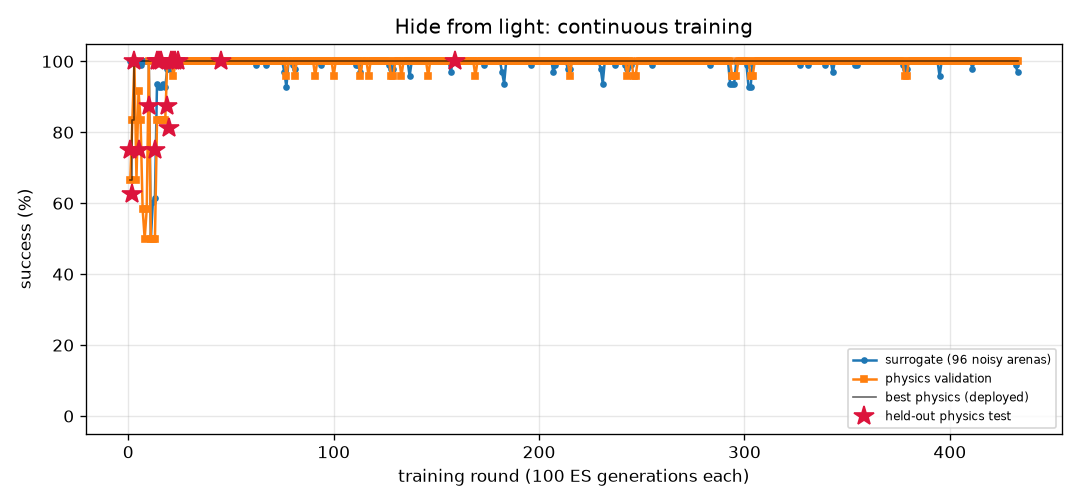
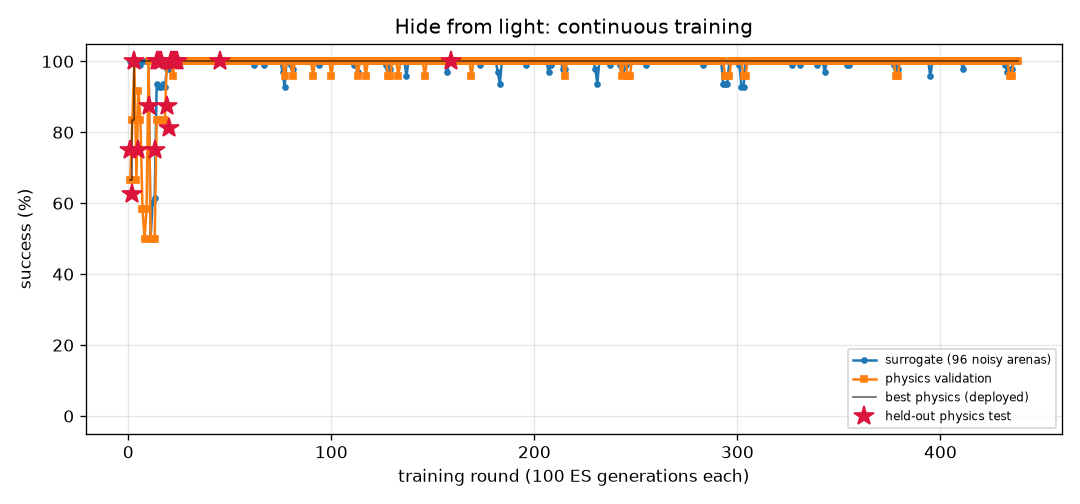
FlyLab: continuous training progress
- walk_forward: optimal, physics val 100% of 24, round 235
- turn: optimal, physics val 100% of 24, round 767
- goto: optimal, physics val 100% of 24, round 195
- odor_seek: optimal, physics val 100% of 24, round 167
- odor_avoid: optimal, physics val 100% of 24, round 704
- light_seek: optimal, physics val 100% of 24, round 390
- light_avoid: optimal, physics val 100% of 24, round 438

diff --git a/projects/09_flylab/training/odor_avoid/REPORT.md b/projects/09_flylab/training/odor_avoid/REPORT.md
@@ -1,14 +1,14 @@
 # Escape a bad smell (`odor_avoid`) — training report
 
-*Auto-generated by `train_brains.py`, last updated 2026-10-29T19:19:18.*
+*Auto-generated by `train_brains.py`, last updated 2026-10-30T20:08:46.*
 
 ![curve](curve.png)
 
 | | |
 |---|---|
-| rounds | 698 |
-| ES generations | 69800 |
-| physics runs | 14058 |
+| rounds | 704 |
+| ES generations | 70400 |
+| physics runs | 14202 |
 | status | **optimal** |
 | best brain | round 373: physics validation **100%** on 24 arenas, surrogate 97% |
 | held-out physics test | **97%** on 32 unseen arenas (95% CI 84%-99%) (errors: [62.0, 57.4, 62.6, 61.9, 59.0, 61.6, 56.5, 60.7, 31.7, 60.9, 63.1, 57.1, 61.1, 62.1, 61.5, 60.2, 62.2, 55.2, 62.1, 54.2, 61.3, 62.0, 58.0, 61.9, 59.8, 56.5, 56.3, 56.4, 56.3, 57.7, 61.9, 32.4]) |
@@ -17,12 +17,6 @@ Physics error per arena: mm gained away from source (> 6 without first approachi
 
 | round | level | gens | sigma | surrogate | physics val | val errors | test | note |
 |---:|---:|---:|---:|---:|---:|---|---:|---|
-| 659 | 3 | 65900 | 0.026 | 96% | 96% | [63.3, 57.2, 55.7, 55.9, 61.5, 62.5, 60.3, 32.1, 60.5, 60.2, 58.8, 61.8, 51.7, 54.4, 31.1, 62.1, 62.1, 62.1, 55.2, 58.3, 62.2, 60.8, 59.0, 62.6] |  |  |
-| 660 | 3 | 66000 | 0.026 | 96% | 96% | [62.7, 55.6, 56.0, 60.5, 61.4, 60.9, 61.2, 21.3, 59.9, 39.2, 60.3, 61.7, 52.5, 52.6, 43.3, 60.4, 61.7, 60.6, 54.4, 55.3, 61.9, 58.6, 57.9, 47.3] |  |  |
-| 661 | 3 | 66100 | 0.026 | 94% | 92% | [62.3, 57.4, 56.1, 57.3, 62.1, 61.1, 61.0, 2.2, 61.1, 26.9, 59.6, 62.0, 52.0, 56.4, 31.9, 61.8, 61.9, 61.2, 54.9, 57.0, 61.6, 38.9, 59.1, 27.9] |  | restart from best |
-| 662 | 3 | 66200 | 0.026 | 93% | 96% | [62.2, 56.7, 57.8, 57.3, 61.1, 61.3, 59.9, 47.6, 60.2, 60.0, 60.8, 60.8, 52.1, 54.9, 38.3, 61.3, 60.7, 61.3, 54.5, 56.2, 60.5, 32.9, 57.3, 22.2] |  |  |
-| 663 | 3 | 66300 | 0.028 | 94% | 100% | [62.3, 61.3, 57.8, 61.2, 60.1, 55.9, 60.7, 54.2, 61.5, 53.8, 56.7, 60.7, 44.1, 54.2, 24.0, 61.4, 61.1, 61.6, 51.7, 59.2, 60.9, 44.7, 56.4, 61.5] |  |  |
-| 664 | 3 | 66400 | 0.028 | 96% | 100% | [59.6, 54.1, 56.2, 55.7, 59.3, 60.5, 60.7, 57.8, 60.6, 48.3, 42.6, 60.8, 51.1, 55.6, 21.8, 60.3, 60.9, 59.9, 51.6, 54.7, 60.6, 58.4, 58.0, 60.2] |  |  |
 | 665 | 3 | 66500 | 0.026 | 96% | 92% | [59.8, 59.0, 56.7, 59.8, 59.7, 61.6, 61.2, 57.9, 61.1, 56.2, 59.6, 61.2, 50.8, 57.0, 36.7, 60.9, 61.4, 61.5, 54.0, 55.7, 61.5, 44.2, 59.9, 60.9] |  | restart from best |
 | 666 | 3 | 66600 | 0.026 | 96% | 100% | [63.3, 56.0, 56.3, 56.3, 60.9, 60.6, 60.4, 44.9, 61.1, 53.2, 55.4, 62.4, 51.2, 55.8, 36.4, 62.0, 62.4, 62.0, 54.8, 58.9, 61.8, 61.4, 59.0, 62.6] |  |  |
 | 667 | 3 | 66700 | 0.026 | 91% | 100% | [62.9, 58.2, 52.3, 61.5, 60.6, 60.2, 61.5, 59.5, 60.9, 60.4, 50.4, 61.6, 52.5, 54.9, 20.7, 61.1, 61.1, 60.5, 52.6, 56.0, 61.2, 53.1, 59.1, 62.3] |  |  |
@@ -57,3 +51,9 @@ Physics error per arena: mm gained away from source (> 6 without first approachi
 | 696 | 3 | 69600 | 0.025 | 98% | 100% | [61.4, 58.4, 55.9, 59.2, 61.5, 60.9, 60.6, 43.7, 60.9, 42.9, 59.3, 61.3, 51.3, 57.1, 50.6, 61.1, 60.6, 60.8, 54.0, 54.4, 61.5, 61.7, 59.5, 59.3] |  |  |
 | 697 | 3 | 69700 | 0.025 | 96% | 100% | [60.5, 59.3, 57.4, 59.7, 61.4, 62.8, 61.1, 45.9, 61.4, 61.8, 57.2, 61.4, 51.9, 58.2, 40.2, 61.4, 61.5, 62.3, 54.4, 58.4, 61.6, 61.1, 60.0, 60.8] |  | restart from best |
 | 698 | 3 | 69800 | 0.026 | 96% | 100% | [62.6, 57.3, 57.4, 59.2, 62.4, 61.9, 61.0, 60.1, 61.7, 60.2, 62.2, 62.0, 55.3, 58.2, 51.7, 62.3, 62.1, 61.9, 55.4, 57.1, 62.7, 62.6, 61.5, 62.1] |  |  |
+| 699 | 3 | 69900 | 0.026 | 95% | 100% | [60.9, 58.0, 55.7, 58.9, 60.6, 60.2, 60.9, 58.9, 61.1, 58.5, 49.9, 60.9, 38.2, 51.9, 30.6, 61.6, 60.8, 60.5, 49.8, 54.6, 61.2, 60.9, 58.8, 60.2] |  |  |
+| 700 | 3 | 70000 | 0.027 | 95% | 96% | [60.3, 56.9, 54.9, 56.8, 58.3, 60.4, 59.1, 59.1, 58.9, 57.3, 20.9, 60.2, 50.4, 51.2, 35.2, 49.6, 57.7, 58.6, 45.4, 56.5, 57.8, 58.5, 57.1, 59.1] |  |  |
+| 701 | 3 | 70100 | 0.027 | 96% | 96% | [59.0, 51.7, 55.4, 54.9, 59.6, 59.0, 59.7, 56.4, 59.8, 57.1, 56.5, 59.8, 49.5, 53.8, 29.7, 59.8, 60.2, 59.1, 50.5, 52.2, 60.1, 56.9, 55.1, 57.4] |  | restart from best |
+| 702 | 3 | 70200 | 0.026 | 97% | 92% | [62.9, 61.3, 57.3, 58.5, 61.5, 58.5, 61.5, 2.9, 60.7, 44.8, 57.8, 61.3, 51.6, 55.5, 41.1, 60.0, 61.4, 37.1, 51.8, 60.0, 61.5, 30.6, 55.7, 33.0] |  |  |
+| 703 | 3 | 70300 | 0.026 | 95% | 96% | [62.2, 61.0, 57.2, 61.1, 60.9, 61.0, 61.3, 42.3, 61.1, 41.1, 19.0, 60.7, 50.0, 55.8, 40.3, 59.6, 60.8, 61.0, 51.5, 57.8, 61.4, 42.0, 61.0, 47.8] |  |  |
+| 704 | 3 | 70400 | 0.027 | 96% | 100% | [60.7, 57.7, 56.0, 58.1, 61.5, 60.5, 58.8, 40.2, 58.8, 60.3, 55.2, 61.1, 49.8, 55.5, 47.3, 61.3, 60.9, 60.6, 53.0, 53.1, 60.7, 59.5, 57.5, 58.5] |  |  |

diff --git a/projects/09_flylab/training/light_avoid/REPORT.md b/projects/09_flylab/training/light_avoid/REPORT.md
@@ -1,14 +1,14 @@
 # Hide from light (`light_avoid`) — training report
 
-*Auto-generated by `train_brains.py`, last updated 2026-10-29T20:18:29.*
+*Auto-generated by `train_brains.py`, last updated 2026-10-30T20:06:31.*
 
 ![curve](curve.png)
 
 | | |
 |---|---|
-| rounds | 433 |
-| ES generations | 43300 |
-| physics runs | 10664 |
+| rounds | 438 |
+| ES generations | 43800 |
+| physics runs | 10784 |
 | status | **optimal** |
 | best brain | round 159: physics validation **100%** on 24 arenas, surrogate 100% |
 | held-out physics test | **100%** on 32 unseen arenas (95% CI 89%-100%) (errors: [14.4, 56.1, 58.0, 57.9, 57.5, 14.0, 14.4, 56.6, 56.8, 13.3, 14.1, 56.6, 57.6, 13.1, 57.3, 55.9, 57.2, 55.0, 55.2, 53.9, 55.2, 12.4, 53.8, 53.7, 14.1, 13.7, 55.0, 57.8, 56.2, 13.1, 52.8, 56.5]) |
@@ -17,11 +17,6 @@ Physics error per arena: mm gained away from source (> 6 without first approachi
 
 | round | level | gens | sigma | surrogate | physics val | val errors | test | note |
 |---:|---:|---:|---:|---:|---:|---|---:|---|
-| 394 | 3 | 39400 | 0.024 | 100% | 100% | [51.2, 52.5, 52.7, 51.7, 47.0, 51.3, 52.8, 14.5, 46.4, 13.2, 49.2, 47.8, 14.4, 47.1, 52.2, 51.0, 14.2, 48.4, 52.1, 14.4, 50.1, 49.7, 52.5, 45.7] |  |  |
-| 395 | 3 | 39500 | 0.024 | 96% | 100% | [37.1, 38.0, 37.0, 35.9, 39.9, 37.7, 34.6, 14.5, 37.7, 9.6, 39.0, 39.2, 14.4, 38.9, 37.6, 7.8, 14.2, 39.5, 37.7, 14.4, 8.2, 40.1, 35.4, 39.3] |  | restart from best |
-| 396 | 3 | 39600 | 0.024 | 100% | 100% | [57.4, 61.5, 61.3, 58.0, 61.3, 58.2, 59.9, 14.5, 57.4, 13.3, 60.5, 61.2, 14.3, 60.4, 61.6, 57.0, 14.2, 61.9, 62.0, 14.4, 54.5, 60.1, 59.7, 60.6] |  |  |
-| 397 | 3 | 39700 | 0.024 | 100% | 100% | [54.5, 58.3, 58.0, 54.8, 57.7, 55.4, 56.7, 14.5, 52.7, 13.4, 57.1, 57.4, 14.4, 57.4, 58.2, 54.2, 14.2, 58.2, 58.6, 14.4, 56.1, 57.3, 56.3, 56.8] |  |  |
-| 398 | 3 | 39800 | 0.024 | 100% | 100% | [49.3, 49.1, 49.6, 49.9, 44.9, 49.2, 50.2, 14.5, 40.1, 13.3, 47.6, 45.2, 14.4, 46.9, 49.7, 49.7, 14.2, 46.3, 48.6, 14.4, 50.1, 49.4, 49.8, 44.1] |  |  |
 | 399 | 3 | 39900 | 0.024 | 100% | 100% | [58.2, 62.5, 62.2, 59.0, 62.0, 59.0, 61.1, 14.5, 58.4, 12.7, 60.9, 61.9, 14.4, 59.3, 62.4, 57.6, 14.2, 62.6, 62.8, 14.4, 59.7, 61.1, 60.9, 61.3] |  | restart from best |
 | 400 | 3 | 40000 | 0.024 | 100% | 100% | [53.1, 56.1, 56.0, 54.0, 54.9, 54.2, 55.0, 14.5, 52.1, 13.5, 55.7, 54.6, 14.4, 52.9, 56.1, 54.0, 14.2, 55.5, 56.5, 14.4, 52.4, 55.6, 54.7, 54.0] |  |  |
 | 401 | 3 | 40100 | 0.024 | 100% | 100% | [49.9, 52.0, 52.1, 49.8, 48.1, 49.5, 52.1, 14.5, 11.5, 13.3, 43.8, 47.9, 14.4, 48.2, 52.1, 49.4, 14.2, 49.2, 51.7, 14.4, 48.7, 46.7, 51.6, 46.9] |  |  |
@@ -57,3 +52,8 @@ Physics error per arena: mm gained away from source (> 6 without first approachi
 | 431 | 3 | 43100 | 0.024 | 100% | 100% | [51.6, 53.9, 53.3, 52.3, 56.3, 52.5, 51.5, 14.5, 51.4, 13.3, 54.7, 56.3, 14.3, 55.7, 53.6, 51.6, 14.2, 56.1, 54.3, 14.4, 50.3, 54.8, 51.1, 55.9] |  | restart from best |
 | 432 | 3 | 43200 | 0.024 | 99% | 100% | [52.2, 53.6, 53.6, 52.3, 49.0, 52.3, 54.1, 14.5, 12.9, 13.4, 47.9, 49.2, 14.4, 47.9, 53.6, 51.4, 14.2, 50.7, 53.7, 14.4, 51.1, 45.8, 53.7, 47.8] |  |  |
 | 433 | 3 | 43300 | 0.025 | 97% | 100% | [42.0, 42.1, 42.5, 42.4, 38.2, 41.9, 43.3, 14.5, 13.0, 13.4, 10.1, 37.7, 14.4, 27.8, 42.3, 42.7, 14.2, 39.1, 41.4, 14.4, 43.0, 11.1, 42.0, 36.3] |  |  |
+| 434 | 3 | 43400 | 0.026 | 98% | 96% | [34.9, 35.7, 35.2, 36.2, 37.7, 34.6, 32.8, 14.5, 13.0, 13.4, 10.2, 37.9, 14.4, 8.0, 35.5, 36.0, 14.2, 37.7, 35.6, 14.4, 35.1, 11.3, 33.4, 38.1] |  |  |
+| 435 | 3 | 43500 | 0.025 | 98% | 96% | [53.4, 55.3, 55.3, 53.8, 52.4, 53.2, 54.9, 14.5, 13.0, 13.4, 10.2, 52.1, 14.4, 8.1, 55.3, 53.4, 14.2, 53.4, 55.4, 14.4, 51.3, 11.3, 54.9, 51.1] |  | restart from best |
+| 436 | 3 | 43600 | 0.024 | 100% | 100% | [50.2, 51.5, 50.9, 50.3, 51.5, 51.0, 49.5, 14.5, 47.7, 13.3, 49.9, 51.3, 14.3, 50.0, 51.4, 49.1, 14.2, 51.9, 51.9, 14.4, 49.0, 49.9, 49.3, 50.9] |  |  |
+| 437 | 3 | 43700 | 0.024 | 100% | 100% | [54.6, 57.4, 57.2, 55.1, 56.2, 55.6, 56.2, 14.5, 52.0, 13.4, 55.2, 55.9, 14.4, 56.5, 57.4, 55.5, 14.2, 56.7, 57.7, 14.4, 53.9, 55.2, 56.0, 55.4] |  |  |
+| 438 | 3 | 43800 | 0.024 | 100% | 100% | [56.2, 58.6, 58.3, 56.4, 57.7, 56.5, 57.3, 14.5, 49.0, 13.5, 57.4, 57.5, 14.4, 57.1, 58.5, 56.4, 14.2, 58.2, 58.9, 14.4, 56.0, 57.4, 56.8, 56.9] |  |  |

diff --git a/projects/09_flylab/training/TRAINING.md b/projects/09_flylab/training/TRAINING.md
@@ -1,6 +1,6 @@
 # FlyLab brains — continuous training log
 
-*Auto-generated by `train_brains.py`, last updated 2026-10-30T19:21:47.*
+*Auto-generated by `train_brains.py`, last updated 2026-10-30T20:08:46.*
 
 Every skill has its own brain and its own training process: surrogate ES rounds, physics validation in MuJoCo, keep-the-best selection, and a held-out physics test that is never used for selection. See each skill's report for its full round-by-round history. Mastery is progressive: passing a level (100% physics validation, >=95% surrogate) doubles the validation and test arena sets; a brain is **optimal** once it holds up at level 3 (>=95% of 24 validation arenas) AND scores >=90% on the 32 held-out test arenas. Test columns show 95% Wilson confidence intervals.
 
@@ -10,6 +10,6 @@ Every skill has its own brain and its own training process: surrogate ES rounds,
 | [Turn in place](turn/REPORT.md) | 767 | 76700 | 18654 | 100% | 100% of 24 | 97% of 32 (CI 84-99%) | **optimal** |
 | [Go to a location](goto/REPORT.md) | 195 | 19500 | 4630 | 100% | 100% of 24 | 100% of 32 (CI 89-100%) | **optimal** |
 | [Find food by smell](odor_seek/REPORT.md) | 167 | 16700 | 3438 | 100% | 100% of 24 | 100% of 32 (CI 89-100%) | **optimal** |
-| [Escape a bad smell](odor_avoid/REPORT.md) | 698 | 69800 | 14058 | 97% | 100% of 24 | 97% of 32 (CI 84-99%) | **optimal** |
+| [Escape a bad smell](odor_avoid/REPORT.md) | 704 | 70400 | 14202 | 97% | 100% of 24 | 97% of 32 (CI 84-99%) | **optimal** |
 | [Walk toward light](light_seek/REPORT.md) | 390 | 39000 | 6240 | 100% | 100% of 24 | 100% of 32 (CI 89-100%) | **optimal** |
-| [Hide from light](light_avoid/REPORT.md) | 433 | 43300 | 10664 | 100% | 100% of 24 | 100% of 32 (CI 89-100%) | **optimal** |
+| [Hide from light](light_avoid/REPORT.md) | 438 | 43800 | 10784 | 100% | 100% of 24 | 100% of 32 (CI 89-100%) | **optimal** |
